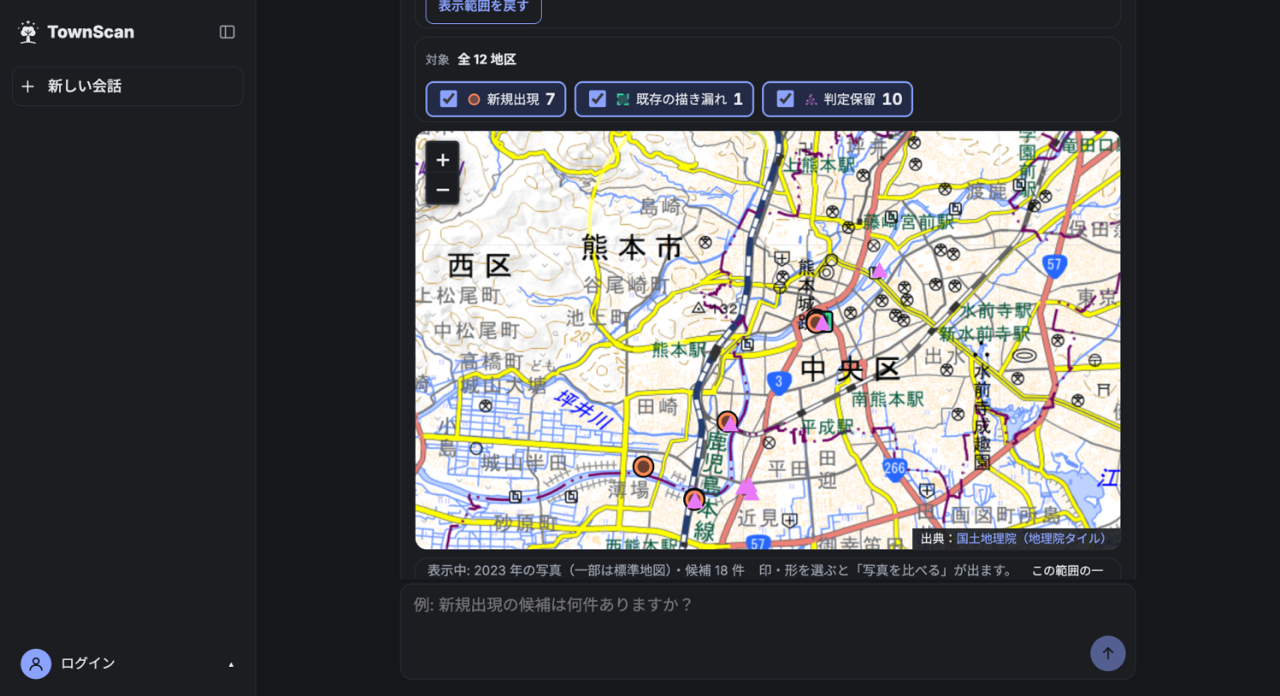
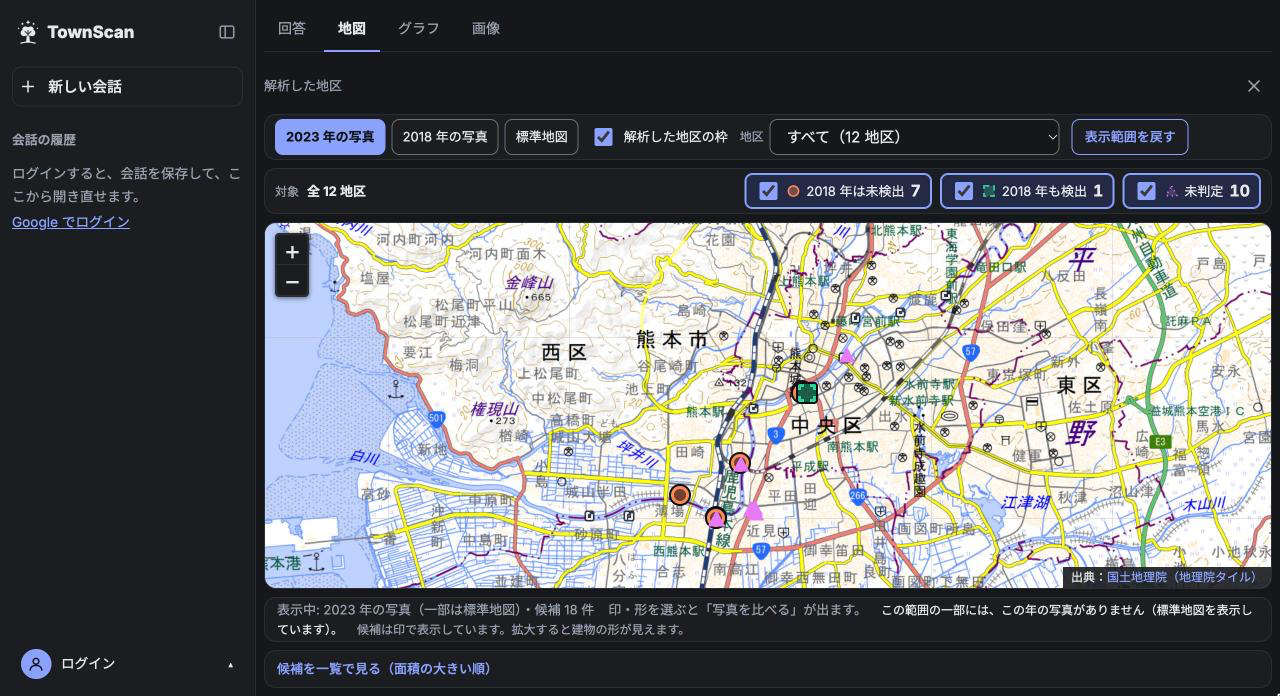
docs: update READMEs and screenshots for one view per answer
Also correct stale claims: the Gemini key is required by default, saved history needs sign-in, replies are written by the model except count-only ones, and the FastAPI API docs no longer exist.

diff --git a/README.ja.md b/README.ja.md
@@ -4,19 +4,19 @@
 
 [English](README.md) | 日本語
 
-熊本市の中心部で、2018 年と 2023 年の空中写真から新築の候補を見つけ、件数・地図・写真を根拠に、会話で答えるアプリです。ローカルで動くたたき台（公開はしていません）。Next.js、Go の API（[ADR 0005](docs/decisions/0005-api-in-go.md)）、Postgres 17、建物の抽出モデルは Google Colab で実行します。
+熊本市の中心部で、2018 年と 2023 年の空中写真から新築の候補を見つけ、質問に、短い文と 1 つの表示（写真・グラフ・地図）で答えるアプリです。ローカルで動くたたき台（公開はしていません）。Next.js、Go の API（[ADR 0005](docs/decisions/0005-api-in-go.md)）、Postgres 17、建物の抽出モデルは Google Colab で実行します。
 
 | 地図の上の候補 | 1 件の 2018 年と 2023 年の写真 |
 |---|---|
-| <a href="docs/images/map.png"><picture><source media="(prefers-color-scheme: dark)" srcset="docs/images/map-dark.png"><img alt="ホーム画面。チャットの回答の中に、分類ごとの件数つきの地図が出る。国土地理院の出典が見える" src="docs/images/map.png"></picture></a> | <a href="docs/images/compare.png"><picture><source media="(prefers-color-scheme: dark)" srcset="docs/images/compare-dark.png"><img alt="写真の比較。チャットの回答の中に、1 件の候補の 2018 年・2023 年の写真（輪郭つき）が出る" src="docs/images/compare.png"></picture></a> |
+| <a href="docs/images/map.png"><picture><source media="(prefers-color-scheme: dark)" srcset="docs/images/map-dark.png"><img alt="地図のタブ。解析した地区の候補と、分類ごとの件数が出る。国土地理院の出典が見える" src="docs/images/map.png"></picture></a> | <a href="docs/images/compare.png"><picture><source media="(prefers-color-scheme: dark)" srcset="docs/images/compare-dark.png"><img alt="写真の比較。チャットの回答の中に、1 件の候補の 2018 年・2023 年の写真（輪郭つき）と出典が出る" src="docs/images/compare.png"></picture></a> |
 
 ## 機能
 
-- **ツールの結果だけを根拠にするチャット。** 件数・面積・座標は、ツールの結果だけから出し、モデルの文章では書きません。範囲外の質問は断ります。モデルは Gemini です（キーが要ります）。
+- **ツールの結果を根拠にするチャット。** カード・グラフ・地図は、ツールの結果のまま描きます。件数だけの回答の本文は、コードが組み立てます（[ADR 0013](docs/decisions/0013-one-view-per-answer.md)）。それ以外の本文はモデルが書き、結果に無い数字があれば固定の文に差し替えます（[ADR 0009](docs/decisions/0009-llm-writes-result-numbers.md)）。数字以外の主張は、この検査の外です。範囲外の質問は断ります。モデルは Gemini です（キーが要ります）。
 - **新築候補の 3 分類。** 2023 年の建物の外形のうち 2018 年の建物データに無いものを、2018 年の写真で確かめます: `confirmed_new`・`existing_omission`・`uncertain`。
 - **地図と写真の見比べ。** 候補を地理院タイルの上に描き、1 棟の 2018 年と 2023 年の写真を並べます。
 - **限界を隠さない精度ページ。** 評価用の物体単位 F1 は約 0.16 です。新築の再現率は「未測定」と明示しています。
-- **任意の Google ログイン。** ログインしなくても、すべての機能を使えます。
+- **任意の Google ログイン。** ログインしなくても使えます。ログインが要るのは、会話の履歴の保存だけです。
 
 ## 構成
 
@@ -32,9 +32,9 @@ flowchart LR
     B -->|"地図タイル"| G["地理院タイル"]
 ```
 
-質問は API のチャットを通ります。Gemini がツール（件数・比較・一覧・検出画像）を選び、返答はツールの結果から作ります。数字の検査が、その結果に無い数字を含む返答を、安全な文に差し替えます。
+質問は API のチャットを通ります。Gemini がツール（件数・比較・一覧・検出画像）を選び、カードはツールの結果から作ります。返答の本文は、その結果をもとに Gemini が書きます（件数だけの回答はコードが組み立てます）。数字の検査が、結果に無い数字を含む返答を、安全な文に差し替えます。
 
-`compose.yaml` は Go の API を動かします。Gemini（`LLM_PROVIDER=gemini`）にも対応しています。API は契約の検査（`contract/`）で確かめます。データの読み込みは Python です（`docker compose run --rm loader python -m pipeline.load …`）。
+`compose.yaml` は、Go の API を Gemini（既定が `LLM_PROVIDER=gemini`）で動かします。API は契約の検査（`contract/`）で確かめます。データの読み込みは Python です（`docker compose run --rm loader python -m pipeline.load …`）。
 
 データは、必要なときに流すオフラインの処理で作ります。
 
@@ -63,10 +63,10 @@ Docker と Node 24 が要ります。
 scripts/dev-up.sh    # frontend をビルドして、db・api・web を起動する
 ```
 
-- 画面: <http://127.0.0.1:3500> ・ API の仕様（FastAPI 版だけ）: <http://127.0.0.1:8500/api/docs>
+- 画面: <http://127.0.0.1:3500>
 - `data/` は Git に入れていない（写真と建物データは再配布しない）ので、クローンしただけでは候補は空です。実行に必要なファイルは [docs/spec-prototype.md](docs/spec-prototype.md) §4.1 にあります。
 - 止める: `docker compose down`（DB ごと消すときは `-v`）。検査: `scripts/verify.sh [repo|pipeline|loader|contract|frontend|all]`。
-- Google ログインと Gemini のキーは任意で、Infisical に置きます（[ADR 0004](docs/decisions/0004-secrets-infisical.md)）。ログインは <http://localhost:3500> で試します（`127.0.0.1` では戻れません）。`BETTER_AUTH_SECRET` は、一度決めたら変えないでください。
+- Gemini の API キー（`GEMINI_API_KEY`）は必須です（既定の設定では、無いと API が起動しません）。Google ログインは任意です。どちらも Infisical（`dev-up.sh` には `TOWNSCAN_INFISICAL_PROJECT_ID` を設定）か `.env` に置きます（[ADR 0004](docs/decisions/0004-secrets-infisical.md)）。ログインは <http://localhost:3500> で試します（`127.0.0.1` では戻れません）。`BETTER_AUTH_SECRET` は、一度決めたら変えないでください。
 
 ## 文書
 
@@ -76,13 +76,13 @@ scripts/dev-up.sh    # frontend をビルドして、db・api・web を起動す
 |---|---|
 | [docs/plan.md](docs/plan.md) | 計画・段階・出口条件・決定待ち |
 | [docs/spec-prototype.md](docs/spec-prototype.md) | 契約: データのファイル・DB・API・3 分類・評価・画面 |
-| [docs/decisions/](docs/decisions/) | 決定とその理由: データと規約（0001）、方向（0002）、チャットの LLM（0003）、秘密の置き場（0004）、API を Go に（0005） |
+| [docs/decisions/](docs/decisions/) | 決定とその理由: データと規約（0001）、方向（0002）、チャットの LLM（0003）、秘密の置き場（0004）、API を Go に（0005）、会話の履歴・画面・呼び名（0006〜0013） |
 | [frontend/README.md](frontend/README.md) ・ [api/README.md](api/README.md) | 各部分の動かし方・検査・詳細 |
 | [CLAUDE.md](CLAUDE.md) | 開発の規約（AI エージェント向け） |
 
 ## このリポジトリについて
 
-ポートフォリオとして公開している個人のプロジェクトです。限界を隠さずに評価する画像認識、数字を自分では書けないチャット、検出を写真で確かめる地図の画面を試すために作りました。秘密は含みません（`.env` は Git の管理外）。
+ポートフォリオとして公開している個人のプロジェクトです。限界を隠さずに評価する画像認識、返答の数字をツールの結果と照合するチャット、検出を写真で確かめる地図の画面を試すために作りました。秘密は含みません（`.env` は Git の管理外）。
 
 データ: 写真は国土地理院のタイル（出典は画面に表示）、参照の建物は国土地理院の基盤地図情報、モデルは `giswqs/whu-building-unetplusplus-efficientnet-b4`（Apache-2.0。学習データ WHU の利用条件は未確認）です。どれも、このリポジトリでは再配布しません。詳細は [ADR 0001](docs/decisions/0001-data-candidates.md) です。
 

diff --git a/README.md b/README.md
@@ -4,19 +4,19 @@
 
 English | [日本語](README.ja.md)
 
-A chat app that finds candidates for new buildings in central Kumamoto City from 2018 and 2023 aerial photos, and answers with counts, a map and the photos as evidence. A local prototype (not deployed): Next.js, an API in Go ([ADR 0005](docs/decisions/0005-api-in-go.md)), Postgres 17, and a building-extraction model run on Google Colab.
+A chat app that finds candidates for new buildings in central Kumamoto City from 2018 and 2023 aerial photos, and answers each question with a short text and one view: photos, a chart or a map. A local prototype (not deployed): Next.js, an API in Go ([ADR 0005](docs/decisions/0005-api-in-go.md)), Postgres 17, and a building-extraction model run on Google Colab.
 
 | Candidates on the map | Photos of one candidate, 2018 and 2023 |
 |---|---|
-| <a href="docs/images/map.png"><picture><source media="(prefers-color-scheme: dark)" srcset="docs/images/map-dark.png"><img alt="Home screen: an answer in the chat with its map of candidates, counts per class and the Geospatial Information Authority of Japan attribution" src="docs/images/map.png"></picture></a> | <a href="docs/images/compare.png"><picture><source media="(prefers-color-scheme: dark)" srcset="docs/images/compare-dark.png"><img alt="Photo comparison: an answer in the chat with the 2018 and 2023 photos of one candidate and its outline" src="docs/images/compare.png"></picture></a> |
+| <a href="docs/images/map.png"><picture><source media="(prefers-color-scheme: dark)" srcset="docs/images/map-dark.png"><img alt="Map tab: the candidates in the analysed areas, with counts per class and the Geospatial Information Authority of Japan attribution" src="docs/images/map.png"></picture></a> | <a href="docs/images/compare.png"><picture><source media="(prefers-color-scheme: dark)" srcset="docs/images/compare-dark.png"><img alt="Photo comparison: an answer in the chat with the 2018 and 2023 photos of one candidate, its outline and the source attribution" src="docs/images/compare.png"></picture></a> |
 
 ## Features
 
-- **Chat that cites its tools.** Counts, areas and coordinates come only from tool results, never from the model's text. Out-of-scope questions are declined. The model is Gemini (an API key is needed).
+- **A chat grounded in tool results.** Cards, charts and maps are drawn from the tool results as they are. A count-only reply is worded by code ([ADR 0013](docs/decisions/0013-one-view-per-answer.md)). Other replies are written by the model, and one with a number that is not in the results is replaced with a fixed text ([ADR 0009](docs/decisions/0009-llm-writes-result-numbers.md)); other claims are not checked. Out-of-scope questions are declined. The model is Gemini (an API key is needed).
 - **Three classes of candidates.** A 2023 building outline missing from the 2018 building data is checked against the 2018 photo: `confirmed_new`, `existing_omission` or `uncertain`.
 - **Map and photo comparison.** Candidates on GSI tiles, and the 2018 and 2023 crops of one building side by side.
 - **An accuracy page that shows its limits.** Held-out object F1 is about 0.16; recall for new buildings is "not measured".
-- **Optional Google sign-in.** Everything works without it.
+- **Optional Google sign-in.** The app works without it; only saved conversation history needs it.
 
 ## Architecture
 
@@ -32,9 +32,9 @@ flowchart LR
     B -->|"map tiles"| G["GSI tile server"]
 ```
 
-A question goes through the API's chat: Gemini picks a tool (counts, comparison, list, detection image), and the answer is built from the tool's result. A number check replaces any answer that contains a figure that is not in that result.
+A question goes through the API's chat: Gemini picks a tool (counts, comparison, list, detection image), and the cards are built from the tool's result. Gemini writes the reply text from that result (a count-only reply is worded by code). A number check replaces any reply that contains a figure that is not in the result.
 
-`compose.yaml` runs the Go API. Gemini (`LLM_PROVIDER=gemini`) is supported too. The API is checked by the contract tests (`contract/`). Loading data is done in Python (`docker compose run --rm loader python -m pipeline.load …`).
+`compose.yaml` runs the Go API with Gemini (`LLM_PROVIDER=gemini` by default). The API is checked by the contract tests (`contract/`). Loading data is done in Python (`docker compose run --rm loader python -m pipeline.load …`).
 
 The data comes from an offline pipeline, run on demand:
 
@@ -63,10 +63,10 @@ Needs Docker and Node 24.
 scripts/dev-up.sh    # builds the frontend and starts db, api and web
 ```
 
-- App: <http://127.0.0.1:3500> · API docs (FastAPI version only): <http://127.0.0.1:8500/api/docs>
+- App: <http://127.0.0.1:3500>
 - `data/` is not in Git (the photos and building data are not redistributed), so a fresh clone starts with no candidates. The files a run needs are in [docs/spec-prototype.md](docs/spec-prototype.md) §4.1.
 - Stop: `docker compose down` (add `-v` to delete the DB). Checks: `scripts/verify.sh [repo|pipeline|loader|contract|frontend|all]`.
-- Google sign-in and a Gemini key are optional and live in Infisical: see [ADR 0004](docs/decisions/0004-secrets-infisical.md). Sign in at <http://localhost:3500>, not `127.0.0.1`, and never change `BETTER_AUTH_SECRET` once it is set.
+- A Gemini API key (`GEMINI_API_KEY`) is required: with the default settings the API does not start without it. Google sign-in is optional. Keep both in Infisical (set `TOWNSCAN_INFISICAL_PROJECT_ID` for `dev-up.sh`) or in `.env`: see [ADR 0004](docs/decisions/0004-secrets-infisical.md). Sign in at <http://localhost:3500>, not `127.0.0.1`, and never change `BETTER_AUTH_SECRET` once it is set.
 
 ## Documentation
 
@@ -76,13 +76,13 @@ The documents are written in Japanese.
 |---|---|
 | [docs/plan.md](docs/plan.md) | Plan, stages, exit criteria, pending decisions |
 | [docs/spec-prototype.md](docs/spec-prototype.md) | The contract: data files, DB, API, classes, evaluation, UI |
-| [docs/decisions/](docs/decisions/) | Decisions and reasons: data and terms (0001), direction (0002), chat LLM (0003), secrets (0004), Go API (0005) |
+| [docs/decisions/](docs/decisions/) | Decisions and reasons: data and terms (0001), direction (0002), chat LLM (0003), secrets (0004), Go API (0005), conversation history, screens and wording (0006–0013) |
 | [frontend/README.md](frontend/README.md) · [api/README.md](api/README.md) | Running, checks and details of each part |
 | [CLAUDE.md](CLAUDE.md) | Development conventions (for AI agents) |
 
 ## About
 
-A personal portfolio project, built to explore image recognition whose evaluation is honest about its limits, a chat that cannot write numbers by itself, and a map UI for checking detections against photos. It contains no secrets (`.env` is outside Git).
+A personal portfolio project, built to explore image recognition whose evaluation is honest about its limits, a chat whose numbers are checked against tool results, and a map UI for checking detections against photos. It contains no secrets (`.env` is outside Git).
 
 Data: photos are GSI tiles (the source is shown in the app), reference buildings are GSI Fundamental Geospatial Data, and the model is `giswqs/whu-building-unetplusplus-efficientnet-b4` (Apache-2.0; the terms of its training data, WHU, are unverified). None is redistributed here; see [ADR 0001](docs/decisions/0001-data-candidates.md).
 

diff --git a/frontend/README.md b/frontend/README.md
@@ -3,9 +3,9 @@
 Next.js 16（App Router・TypeScript strict・Node 24）。仕様は [../docs/spec-prototype.md](../docs/spec-prototype.md) §7。
 
 - 画面: `/`（チャットの 1 列）・`/accuracy`（精度・既知の限界・出典と規約）・`/login`（任意のログイン）・`/healthz`（コンテナのヘルスチェック）
-  結果のうち、グラフ・地図は、回答の中の**図**として、結果カードの並びの下に出る（件数＝地図、比較＝グラフ、地図の表示＝地図。件数のカードの表は、地図と同じ候補データから作る〔`lib/candidates-context.ts`〕。`components/AnswerFigure.tsx`・`lib/answer-view.ts` の `figureKinds`。地図は画面に近づくまでマウントしない）。
-  拡大ビュー（`components/ExpandedView.tsx`）が開くのは、図の「拡大」、地図の図の「写真を比べる」、グラフの図の「地図で見る」、結果カードの「詳細」（件数のカードの表の行を含む）「詳細を開く」「地図で見る」（地図の表示）、最初の画面の「解析した地区を地図で見る」を押したときと、開いていないときにタブの「地図」「グラフ」「画像」を押したとき（回答を持たない、全地区の拡大ビュー）。回答が届いただけでは開かない。
-  拡大ビューはダイアログではなく、全幅のタブ「回答｜地図｜グラフ｜画像」の画面（ADR 0008）。タブの帯（`components/ResultArea.tsx` の `ResultTabs`）は、`components/HomeClient.tsx` がメインの枠の上端にいつも置く。「閉じる」ボタンは無い。「回答」のタブで会話へ戻る（拡大ビューは開いたまま）。地図・グラフ・画像のタブか拡大ビューの中で Esc を押すと閉じる。
+  回答の本文の下に出る表示は 1 つ。順位は、地図の表示 ＞ 候補 1 件の写真 ＞ 地区の比較 ＞ 候補の一覧 ＞ 件数（`lib/answer-view.ts` の `planAnswer`。[ADR 0013](../docs/decisions/0013-one-view-per-answer.md)）。精度・お断り・使い方の表は、順位に関係なく出る。2 位以下の結果と、地図・グラフの見方は、最新の回答の下の「表示を切り替える」に 2 つまで出る。比較はグラフ、地図の表示は地図が、回答の中の**図**になる（`components/AnswerFigure.tsx`。地図は画面に近づくまでマウントしない）。件数と候補の一覧は、2018 年と 2023 年の写真のカード（件数のカードは、地図と同じ候補データから作る〔`lib/candidates-context.ts`〕）。
+  拡大ビュー（`components/ExpandedView.tsx`）が開くのは、回答の写真（写真のカード・候補 1 件の写真）、図の「拡大」、地図の図の「写真を比べる」、グラフの図の「地図で見る」（絞り込み中に出る）、「表示を切り替える」の「地図で見る」「グラフで見る」、最初の画面の「解析した地区を地図で見る」を押したときと、開いていないときにタブの「地図」「グラフ」「画像」を押したとき（回答を持たない、全地区の拡大ビュー）。回答が届いただけでは開かない。
+  拡大ビューはダイアログではなく、全幅のタブ「回答｜地図｜グラフ｜画像」の画面（ADR 0008）。タブの帯（`components/ResultArea.tsx` の `ResultTabs`）は、`components/HomeClient.tsx` がメインの枠の上端にいつも置く。閉じる手段は、右上の ✕ と Esc（拡大ビューの中か、地図・グラフ・画像のタブで）で、回答へ戻る。「回答」のタブを押すと、拡大ビューを開いたまま会話へ戻る。
   3 つの画面の中身は `ResultArea`（候補の詳細は `components/CandidateDrawer.tsx`）。状態の単位は回答 1 件で、タブ・絞り込み・選んだ候補は回答ごとに保ち、回答の中の図と拡大ビューが共有する（`lib/answer-view.ts`・`components/HomeClient.tsx`）。
 - 枠: 幅 1024px 以上は左のサイドパネル（`AppSidebar`。JobNavi・DocuNavi と同じ。開いた表示と細い帯をボタンで切り替える。はじめは開いた状態で、保存しない）。1023px 以下は、はじめは閉じていて、上の細い 1 行のボタンで、サイドパネルを重ねて開く（背景・Esc・閉じるボタン・ページの移動で閉じる）。上の横帯は無い。状態の印（模擬モデルなど）も出さない。合成データ・API 不通のバナー（`AppBanners`）は、どちらの幅でも本文の上に出る。`/login` はサイドパネルなし。
   `app/(site)/` が枠つきの 3 ページ、`app/(auth)/` がログイン。
